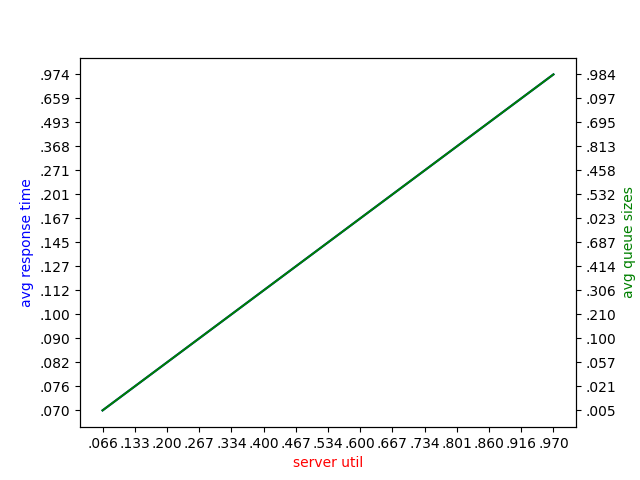
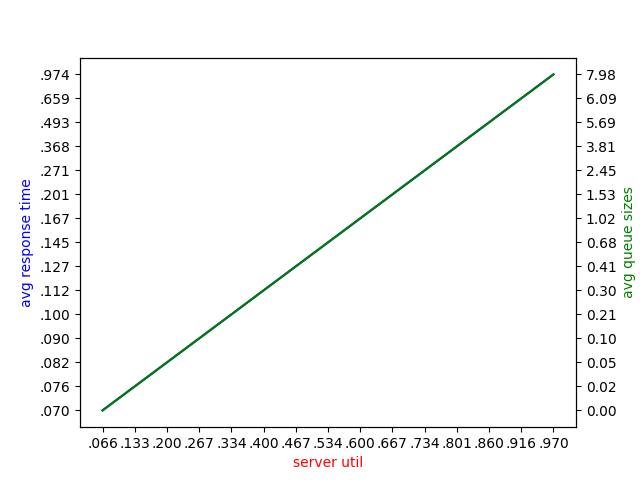
finished the data gathering portion of eval 2. just need to finish typing up the report.

diff --git a/hw2/src/eval1.py b/hw2/src/eval1.py
@@ -11,8 +11,6 @@ index=max(data['length'])
 print(index//0.005)
 bins=[i*0.005 for i in range(int(index//0.005+1))]
 values=[0]*len(bins)
-print(len(bins))
-print(len(values))
 for i in range(len(data['length'])):
     values[int(data.iloc[i,2]//0.005)]+=1/1000
 plt.plot(bins,values)
@@ -33,11 +31,11 @@ plt.plot(normvals,x)
 expvals=np.random.exponential(1/10,size=10000)
 expvals.sort()
 
-norm=lambda x: 1/10*math.exp(-10*x)
+norm=lambda x: 10*math.exp(-10*x)
 x=[norm(val) for val in expvals]
 
 
-x=[val/1.5 for val in x]
+x=[val/150 for val in x]
 plt.plot(expvals,x)
 
 #uniform values
@@ -54,8 +52,8 @@ x=[val/10 for val in x]
 plt.plot(univals,x)
 plt.axvline(-0.8,ymin=0.05,ymax=x[0]/0.1,color="r")
 plt.axvline(1,ymin=0.05,ymax=x[0]/0.1,color="r")
-plt.axhline(y=0,xmax=3.2/8,color="r")
-plt.axhline(y=0,xmin=5/8,color="r")
+plt.axhline(y=0,xmax=3/8,color="r")
+plt.axhline(y=0,xmin=4.7/8,color="r")
 
 # Set the heights of the bars to the normalized values
 #plt.yticks([i for i in plt.yticks()[0]], [f'{i/1000}' for i in plt.yticks()[0]])
@@ -65,17 +63,63 @@ plt.savefig('lendist.png')
 plt.clf()
 intertimes=[]
 
-print(data.iloc[999,3])
+
 for i in range(999):
     intertimes.append(data.iloc[i+1,3]-data.iloc[i,3])
 
+#index=max(intertimes)
+#bins=[i*0.005 for i in range(int(index//0.005+2))]
+
+
 index=max(intertimes)
-bins=[i*0.005 for i in range(int(index//0.005+2))]
-print("exit")
-plt.hist(intertimes,bins=bins)
-print("exit")
-#plt.yticks([i for i in plt.yticks()[0]], [f'{i/999:.2}' for i in plt.yticks()[0]])
-print("exit")
+print(index//0.005)
+bins=[i*0.005 for i in range(int(index//0.005+1))]
+values=[0]*len(bins)
+for i in range(len(intertimes)):
+    values[int(intertimes[i]//0.005)]+=1/999
+plt.plot(bins,values)
+#normal values
+normvals=np.random.normal(1/6,1,size=10000)
+normvals.sort()
+
+
+norm=lambda x: (1/(1*math.sqrt(2*np.pi))*math.exp(-1/2*((x-0.1)/1)**2))
+x=[norm(val) for val in normvals]
+x=[val/4 for val in x]
+
+plt.plot(normvals,x)
+
+#exponential values
+
+expvals=np.random.exponential(1/6,size=10000)
+expvals.sort()
+
+norm=lambda x: 10*math.exp(-10*x)
+x=[norm(val) for val in expvals]
+
+
+x=[val/150 for val in x]
+plt.plot(expvals,x)
+
+#uniform values
+
+
+univals=np.random.uniform(-1,4/3,size=10000)
+univals.sort()
+
+uni=lambda x,y: 1/(y-x)
+x=[uni(-1,4/3) for val in univals]
+
+
+x=[val/10 for val in x]
+plt.plot(univals,x)
+plt.axvline(-1,ymin=0.05,ymax=x[0]/0.1,color="r")
+plt.axvline(4/3,ymin=0.05,ymax=x[0]/0.1,color="r")
+plt.axhline(y=0,xmin=-4,xmax=3.2/9,color="r")
+plt.axhline(y=0,xmin=5/8,xmax=4,color="r")
+
+
+#plt.hist(intertimes,bins=bins)
 plt.xlabel("interarrival time occurrence in bin 0.005*i")
 plt.ylabel("number of occurrences")
-plt.savefig("inter.png")
+plt.savefig("arrdist.png")

diff --git a/hw2/src/eval2b.py b/hw2/src/eval2b.py
@@ -9,7 +9,7 @@ qsizes=[]
 utils=[]
 for i in range(1,16):
     data=open(f"pyout/pydat{i}.txt","r")
-    qsizes.append(data.readline()[1:5])
+    qsizes.append(data.readline()[:4])
     restimes.append(data.readline()[1:5])
     utils.append(data.readline()[1:5])
 
